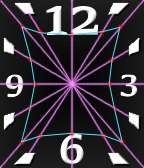
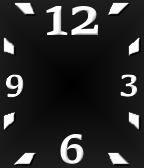
Fixed double free
Double free was causing app to crash whenever a notification arrived.

Changed region(s): [[0.0, 0.0, 1.0, 1.0], [0.7778, 0.8929, 0.8056, 0.9226]]

diff --git a/src/main.c b/src/main.c
@@ -29,9 +29,6 @@ static void deinit() {
 }
 static void time_change_handler(struct tm *current_time, TimeUnits units_changed) {
   layer_mark_dirty(root_window_layer);
-  gpath_destroy(second_hand_path);
-  gpath_destroy(minute_hand_path);
-  gpath_destroy(hour_hand_path);
 }
 
 static void second_hand_layer_draw(Layer *layer, GContext *ctx) {
@@ -68,6 +65,7 @@ static void second_hand_layer_draw(Layer *layer, GContext *ctx) {
   }
   
   // Create and draw the path with the correct length as modified by the calculations above.
+  gpath_destroy(second_hand_path);
   second_hand_path = gpath_create(&second_hand_path_points);
   gpath_move_to(second_hand_path, center);
   gpath_rotate_to(second_hand_path, TRIG_MAX_ANGLE / 360 * second_angle);
@@ -76,10 +74,11 @@ static void second_hand_layer_draw(Layer *layer, GContext *ctx) {
   graphics_context_set_stroke_width(ctx, 1);
   gpath_draw_filled(ctx, second_hand_path);
   gpath_draw_outline(ctx, second_hand_path);
+  gpath_destroy(hand_highlight_path);
   hand_highlight_path = gpath_create(&hand_highlight_path_points);
   gpath_move_to(hand_highlight_path, center);
   gpath_rotate_to(hand_highlight_path, TRIG_MAX_ANGLE / 360 * second_angle);
-  graphics_context_set_stroke_color(ctx, GColorWhite);
+  graphics_context_set_stroke_color(ctx, GColorRichBrilliantLavender);
   graphics_context_set_stroke_width(ctx, 1);
   gpath_draw_outline(ctx, hand_highlight_path);  
 }
@@ -141,8 +140,8 @@ static void hour_hand_layer_draw(Layer *layer, GContext *ctx) {
     current_time->tm_hour-=12;
   }
   
-  current_time->tm_hour = 10;
-  current_time->tm_min = 30;
+   //current_time->tm_hour = 4;
+ // current_time->tm_min = 0;
   
   // `hour_angle' is the simple angle used to rotate the path
   // `trig_hour_angle' is the value used to calculate the length that the path needs to be.
